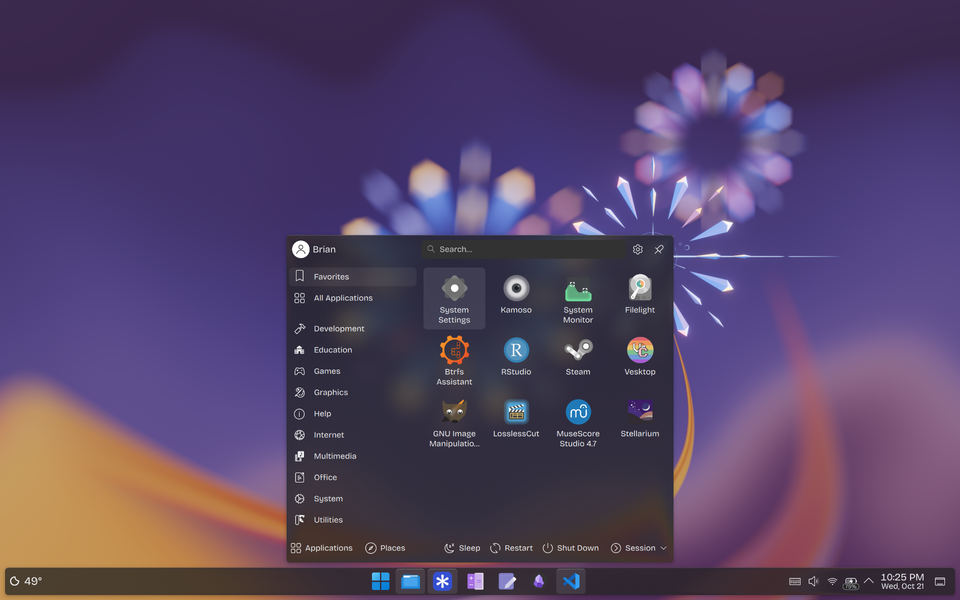
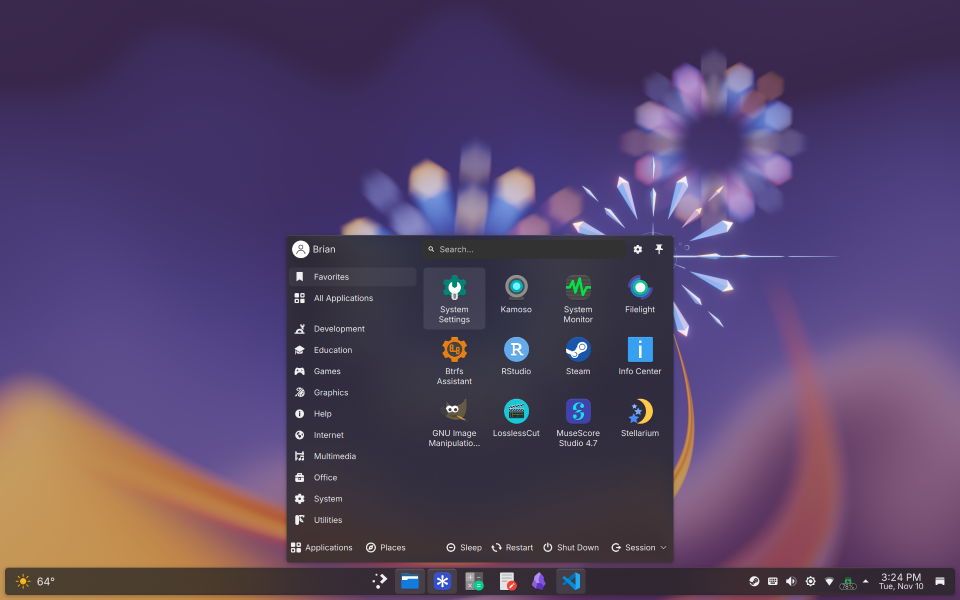
Update README and before/after screenshots

diff --git a/README.md b/README.md
@@ -3,7 +3,7 @@
 [![KDE Store](https://img.shields.io/badge/KDE_Store-download-blue?logo=kde&logoColor=white)](https://store.kde.org/p/2380048)
 [![GitHub release](https://img.shields.io/github/v/release/terminallywell/center-widget-popups?logo=github&color=limegreen)](https://github.com/terminallywell/center-widget-popups/releases/latest)
 
-A KWin script for KDE Plasma 6 that horizontally centers any widget popup (e.g. Application Launcher) that opens within a user-defined horizontal range of the screen (default: 25%–50% from the left edge). Popups opening elsewhere stay where Plasma put them.
+A KWin script for KDE Plasma 6 that horizontally centers any widget popup (e.g. Application Launcher) that opens within a user-defined horizontal range of the screen (default: 25%–50% from the left edge).
 
 | Before | After |
 | :---: | :---: |
@@ -11,20 +11,20 @@ A KWin script for KDE Plasma 6 that horizontally centers any widget popup (e.g. 
 
 ## Installation
 
-1. Download `center-widget-popups.kwinscript` from the [latest release](https://github.com/terminallywell/center-widget-popups/releases/latest).
-2. In *System Settings* → *Window Management* → *KWin Scripts*, click *Install from File…* and choose the downloaded file.
-3. Enable *Center Widget Popups* and click *Apply*. The target range can also be configured there.
+1. Open *System Settings* → *Window Management* → *KWin Scripts* and install the script in one of two ways:
+   - **KDE Store:** Click *Get New…*, search for "Center Widget Popups", and click *Install*.
+   - **GitHub release:** Download `center-widget-popups.kwinscript` from the [latest release](https://github.com/terminallywell/center-widget-popups/releases/latest), click *Install from File…*, and select the downloaded file.
+1. Enable *Center Widget Popups* and click *Apply*. The detection range can also be configured there.
 
-To update, install the newer release the same way, then disable and re-enable the script.
+To update, use *Get New…* (KDE Store) or install the newer release file the same way (GitHub), then disable and re-enable the script.
 
-To uninstall, remove it from the same KWin Scripts page.
+To uninstall, remove it from the KWin Scripts page.
 
 ## Limitations
 
-- The script detects popups by screen position; any popup that opens from within the range is centered.
-- Only the horizontal position changes.
-- Untested with vertical panels and multiple monitors.
+- The script detects popups by screen position; any popup whose horizontal center falls within the range is centered.
+- Untested with vertical panels or multiple monitors.
 
 ## AI Use Disclosure
 
-Developed with help from Claude Opus 5.5; human-reviewed and tested on Plasma 6.8.
+The script's core logic was implemented by Claude Opus 5.5.
